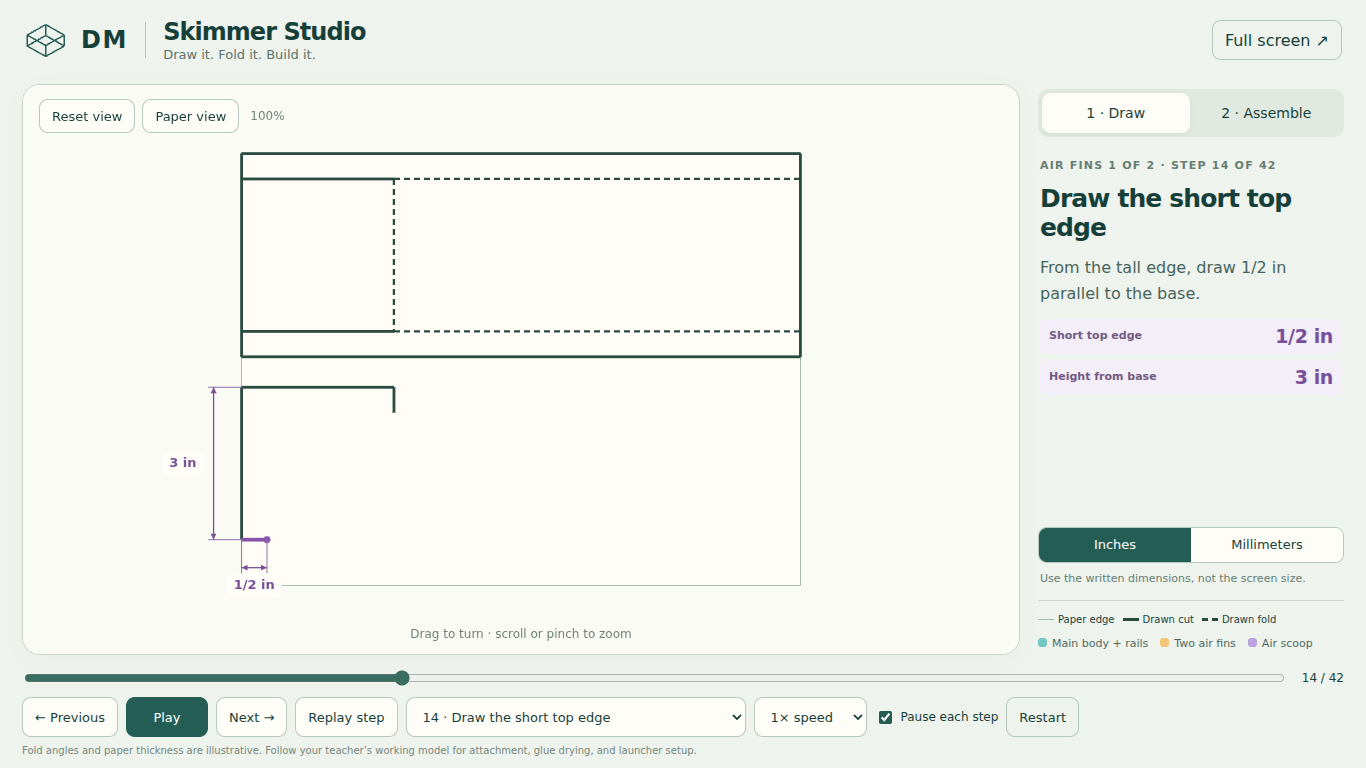
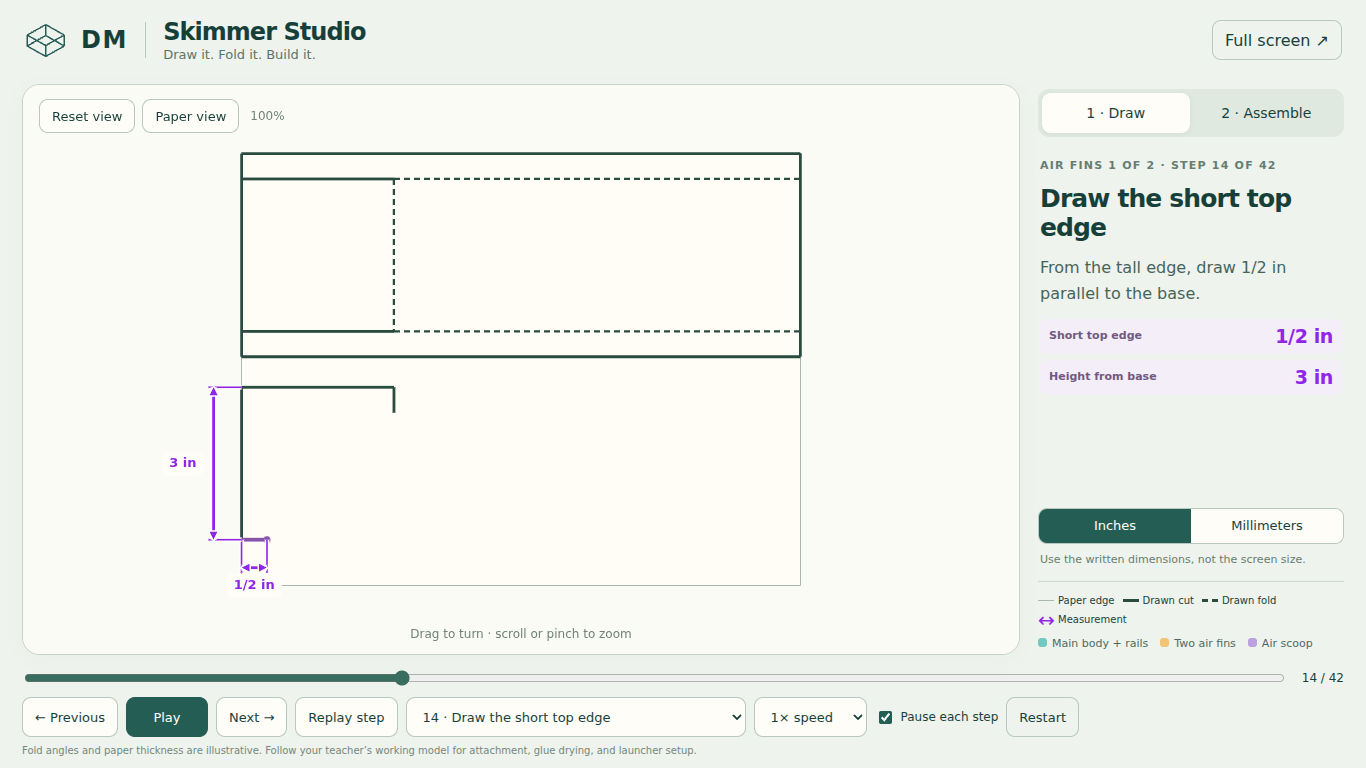
Make dimension arrows stand out and label both rail fold lengths

diff --git a/app.js b/app.js
@@ -65,19 +65,35 @@
     }
   }
   function stroke(a,b,color,width=2,dashes=[]){ctx.beginPath();ctx.moveTo(a[0],a[1]);ctx.lineTo(b[0],b[1]);ctx.strokeStyle=color;ctx.lineWidth=width;ctx.setLineDash(dashes);ctx.stroke();ctx.setLineDash([]);}
+  const dimensionInk='#9025e8',dimensionHalo='#fffdf7';
+  function dimensionStroke(a,b,width,dpr){
+    // A pale outline keeps the measurement distinct where it crosses drawn ink.
+    stroke(a,b,dimensionHalo,(width+3)*dpr);
+    stroke(a,b,dimensionInk,width*dpr);
+  }
   function dimension(d,pr,dpr){
     const a=pr.point(d.a),b=pr.point(d.b),dx=b[0]-a[0],dy=b[1]-a[1],len=Math.hypot(dx,dy);
     if(len<2*dpr)return;
     const u=[dx/len,dy/len],side=Math.sign(d.offset||28),n=[-u[1]*side,u[0]*side],offset=Math.abs(d.offset||28)*dpr;
     const aa=[a[0]+n[0]*offset,a[1]+n[1]*offset],bb=[b[0]+n[0]*offset,b[1]+n[1]*offset];
-    stroke(a,[aa[0]+n[0]*5*dpr,aa[1]+n[1]*5*dpr],'#9375aa',dpr);
-    stroke(b,[bb[0]+n[0]*5*dpr,bb[1]+n[1]*5*dpr],'#9375aa',dpr);
-    stroke(aa,bb,'#795099',1.3*dpr);
-    for(const [p,sign] of [[aa,1],[bb,-1]]){ctx.beginPath();ctx.moveTo(...p);ctx.lineTo(p[0]+sign*u[0]*6*dpr+n[0]*3*dpr,p[1]+sign*u[1]*6*dpr+n[1]*3*dpr);ctx.lineTo(p[0]+sign*u[0]*6*dpr-n[0]*3*dpr,p[1]+sign*u[1]*6*dpr-n[1]*3*dpr);ctx.closePath();ctx.fillStyle='#795099';ctx.fill();}
+    dimensionStroke(a,[aa[0]+n[0]*5*dpr,aa[1]+n[1]*5*dpr],1.6,dpr);
+    dimensionStroke(b,[bb[0]+n[0]*5*dpr,bb[1]+n[1]*5*dpr],1.6,dpr);
+    // On tiny offsets, put the arrowheads outside so they cannot merge together.
+    const outside=len<24*dpr,extension=outside?12*dpr:0;
+    dimensionStroke([aa[0]-u[0]*extension,aa[1]-u[1]*extension],[bb[0]+u[0]*extension,bb[1]+u[1]*extension],2.8,dpr);
+    for(const [p,end] of [[aa,1],[bb,-1]]){
+      const sign=end*(outside?-1:1);
+      ctx.beginPath();ctx.moveTo(...p);ctx.lineTo(p[0]+sign*u[0]*8*dpr+n[0]*4*dpr,p[1]+sign*u[1]*8*dpr+n[1]*4*dpr);ctx.lineTo(p[0]+sign*u[0]*8*dpr-n[0]*4*dpr,p[1]+sign*u[1]*8*dpr-n[1]*4*dpr);ctx.closePath();
+      ctx.strokeStyle=dimensionHalo;ctx.lineWidth=3*dpr;ctx.stroke();ctx.fillStyle=dimensionInk;ctx.fill();
+    }
     const text=Skimmer.measure(d.value,state.units);ctx.font=`700 ${13*dpr}px system-ui`;ctx.textAlign='center';ctx.textBaseline='middle';
     const tw=ctx.measureText(text).width+14*dpr;
     const mx=Skimmer.clamp((aa[0]+bb[0])/2+n[0]*(tw/2+10*dpr),tw/2+4*dpr,canvas.width-tw/2-4*dpr),my=Skimmer.clamp((aa[1]+bb[1])/2+n[1]*18*dpr,18*dpr,canvas.height-35*dpr);
-    ctx.fillStyle='#fffdf7';ctx.beginPath();ctx.roundRect(mx-tw/2,my-12*dpr,tw,24*dpr,6*dpr);ctx.fill();ctx.fillStyle='#795099';ctx.fillText(text,mx,my);
+    return {text,mx,my,tw};
+  }
+  function dimensionLabel({text,mx,my,tw},dpr){
+    ctx.font=`700 ${13*dpr}px system-ui`;ctx.textAlign='center';ctx.textBaseline='middle';
+    ctx.fillStyle=dimensionHalo;ctx.beginPath();ctx.roundRect(mx-tw/2,my-12*dpr,tw,24*dpr,6*dpr);ctx.fill();ctx.fillStyle=dimensionInk;ctx.fillText(text,mx,my);
   }
   let cachedStage=-1,cachedUnits='';
   function updateUI(){
@@ -110,7 +126,9 @@
     paint3D(pr,W,H,f.assemblyTime);
     for(const l of f.lines){const a=pr.point(l.a),b=pr.point(l.b);stroke(a,b,l.active?'#8655aa':'#294b40',(l.active?3.8:l.kind==='fold'?2.3:2.8)*dpr,l.kind==='fold'?[6*dpr,4*dpr]:[]);if(l.active){ctx.beginPath();ctx.arc(b[0],b[1],3.5*dpr,0,Math.PI*2);ctx.fillStyle='#8655aa';ctx.fill();}}
     const s=Skimmer.stages[Skimmer.stageIndex(state.t)];
-    if(s.dimensions)for(const d of s.dimensions)dimension(d,pr,dpr);
+    // Paint all text last so another measurement cannot draw across a number.
+    const dimensionLabels=(s.dimensions||[]).map(d=>dimension(d,pr,dpr)).filter(Boolean);
+    for(const label of dimensionLabels)dimensionLabel(label,dpr);
     updateUI();
   }
   function transitionView(next){if(state.t<=Skimmer.assemblyStart&&next>Skimmer.assemblyStart)state.view='iso';else if(state.t>Skimmer.assemblyStart&&next<Skimmer.assemblyStart)state.view='top';}

diff --git a/model.js b/model.js
@@ -39,7 +39,11 @@ const Skimmer = (() => {
   line('Main body','Close the rear edge',[0,2],[0,-2],'cut',`Join the two long edges with a ${M(4)} line. This short end is the REAR.`,bodyDimensions());
   for (const side of [-1,1]) {
     const y=side*1.5;
-    line('Main body',`Mark ${side<0?'first':'second'} rail fold`,[3,y],[11,y],'fold',`Measure ${M(.5)} inward from this long edge. Draw a dashed fold line, stopping ${M(3)} from the rear.`,[dimension('From long edge',[6,side*2],[6,y]),dimension('From rear',[0,y],[3,y],side*32)]);
+    line('Main body',`Mark ${side<0?'first':'second'} rail fold`,[3,y],[11,y],'fold',`Measure ${M(.5)} inward from this long edge. Draw a dashed fold line ${M(8)} long, starting ${M(3)} from the rear.`,[
+      dimension('From long edge',[6,side*2],[6,y]),
+      dimension('From rear',[0,y],[3,y],-side*32),
+      dimension('Fold line length',[3,y],[11,y],-side*32)
+    ]);
     line('Main body',`Mark ${side<0?'first':'second'} rear slit`,[0,y],[3,y],'cut',`Continue on the same line for ${M(3)} from the REAR. Use a solid line here: this short section will be cut.`,[dimension('Slit length',[0,y],[3,y],side*32),dimension('From long edge',[1.5,side*2],[1.5,y])]);
   }
   line('Main body','Mark the rear panel hinge',[3,-1.5],[3,1.5],'fold',`Join the ends of the two slits with a dashed line. This is a fold, not another cut.`,[dimension('From rear',[0,-1.5],[3,-1.5],-32),dimension('Panel width',[3,-1.5],[3,1.5],-32)]);

diff --git a/index.html b/index.html
@@ -31,7 +31,7 @@
       </div>
       <div class="units" role="group" aria-label="Measurement units"><button id="imperial" aria-pressed="true">Inches</button><button id="metric" aria-pressed="false">Millimeters</button></div>
       <p id="unitNote" class="small">Use the written dimensions, not the screen size.</p>
-      <div class="line-key" aria-label="Line styles"><span><i class="paper-line"></i>Paper edge</span><span><i class="cut-line"></i>Drawn cut</span><span><i class="fold-line"></i>Drawn fold</span></div>
+      <div class="line-key" aria-label="Line styles"><span><i class="paper-line"></i>Paper edge</span><span><i class="cut-line"></i>Drawn cut</span><span><i class="fold-line"></i>Drawn fold</span><span><i class="dimension-line" aria-hidden="true">↔</i>Measurement</span></div>
       <div class="legend"><span class="body">Main body + rails</span><span class="fins">Two air fins</span><span class="scoop">Air scoop</span></div>
     </aside>
   </div>

diff --git a/style.css b/style.css
@@ -4,9 +4,10 @@
 .measurement{display:grid;gap:6px;padding-top:13px;min-height:0;letter-spacing:normal}
 .measure-row{display:flex;align-items:center;justify-content:space-between;gap:8px;background:#f3eef7;border-radius:7px;padding:6px 9px}
 .measure-label{font-size:11px;line-height:1.3;font-weight:600;color:#705981}
-.measure-value{font-size:19px;line-height:1.2;white-space:nowrap;letter-spacing:-.02em}
+.measure-value{font-size:19px;line-height:1.2;white-space:nowrap;letter-spacing:-.02em;color:#9025e8}
 .line-key{gap:8px;flex-wrap:wrap;font-size:10px}
 .line-key span{display:flex;align-items:center;gap:4px}
 .line-key i{display:inline-block;width:16px;border-top:1px solid #a8b8ad}
 .line-key .cut-line{border-top:3px solid #294b40}
 .line-key .fold-line{border-top:3px dashed #294b40}
+.line-key .dimension-line{border:0;color:#9025e8;font-size:20px;font-style:normal;line-height:10px}

diff --git a/QA.md b/QA.md
@@ -7,7 +7,7 @@
 - Dimensions match the existing measured model: body 11 × 4 in, rails 1/2 in, two matching air fins with 3 in extents, and a 3 × 3 in air scoop center.
 - Exact fractional conversions include 1/8 in = 3.175 mm and 3/8 in = 9.525 mm; changing display units does not change geometry.
 - Each of the 29 drawing strokes appears progressively from its starting endpoint; blank paper has no pre-drawn parts.
-- Every drawing step has positive, geometrically accurate dimensions on both perpendicular paper axes, with named measurement rows. The rail offsets, air fin top/height, and all three air scoop tab dimensions have explicit checks.
+- Every drawing step has positive, geometrically accurate dimensions on both perpendicular paper axes, with named measurement rows. The rail offsets and explicit 8 in fold lengths, air fin top/height, and all three air scoop tab dimensions have explicit checks.
 - Every timeline boundary and sampled geometry/projection is finite.
 - A conservative clear-space check samples the air scoop path every 0.005 source seconds: it remains outside the body or below the deck inside both rails. Its front edge finishes at the nose.
 - All lettering vertices remain on the plane of their own part during every fold.
@@ -42,6 +42,14 @@ The check was in Chromium, not on the classroom's actual student devices. Confir
 
 Reviewed the rail placement, air fin top edge, and paper-edge examples, plus body outlines, rear slits/hinge, air fin base/diagonal, air scoop center, and both tab sides. Both axes remain visible, and drawn strokes are heavier than the paper boundary.
 
-![Rail offset and distance from rear](docs/rail-dimensions-preview.png)
+Measurement arrows are now bright purple, 2.8 CSS pixels thick, with a pale outline and larger arrowheads. Very short dimensions use outside arrowheads to avoid a merged shape. Measurement numbers render after all arrows, keeping crossing lines out of the text. The line key identifies measurement arrows separately from drawn cuts and folds.
+
+Both rail folds show the 1/2 in inset, 3 in rear gap, and 8 in fold length (12.7, 76.2, and 203.2 mm). The gap and length arrows sit together inside the body, clear of the view buttons on short laptop windows.
+
+An additional visual review covered both rail folds, the tall air fin edge, and small air scoop offsets at 1920 × 960, 1366 × 650, 1024 × 640, 900 × 650, and 390 × 844. The rail's three values and instructions were checked in inches and millimeters at each size. Laptop layouts have no page overflow; the instruction panel can scroll on short windows.
+
+![Rail inset, rear gap, and explicit fold length](docs/rail-dimensions-preview.png)
 
 ![Air fin top length and height](docs/air-fin-dimensions-preview.png)
+
+![Bright dimension arrows on a 1024 by 640 laptop window](docs/dimension-laptop-preview.png)

diff --git a/README.md b/README.md
@@ -14,7 +14,7 @@ An interactive paper-skimmer drawing and assembly guide. Start with whole, blank
 - **Inches / Millimeters:** switch all drawing instructions and dimension annotations. Metric values are exact conversions at 25.4 mm per inch, including 3.175 mm for 1/8 inch. Switching units never rescales the parts.
 - **Keyboard:** focus the picture and use arrow keys to rotate, +/− to zoom, and R to reset. Space plays or pauses when not operating another control.
 
-Every drawing step shows measurements on both paper axes, with labels explaining each value. Sloping air scoop tabs show both offsets and the center length. Drawn cuts and dashed folds are heavier than the thin, pale paper boundary.
+Every drawing step shows measurements on both paper axes, with labels explaining each value. Both rail folds explicitly show their 8 in (203.2 mm) length alongside the inset and rear gap. Sloping air scoop tabs show both offsets and the center length. Drawn cuts and dashed folds are heavier than the thin, pale paper boundary. Measurement arrows use bright purple, thicker lines, and a pale outline to stay visible across drawn lines and paper edges.
 
 There are 29 individual drawing strokes and 42 total steps. The normal-speed assembly is 18 seconds, four times faster than R5. Quarter, half, and double speed are available. Playback always stops at the measurement check before cutting, even with continuous play selected. It starts paused and resets to blank paper.
 
